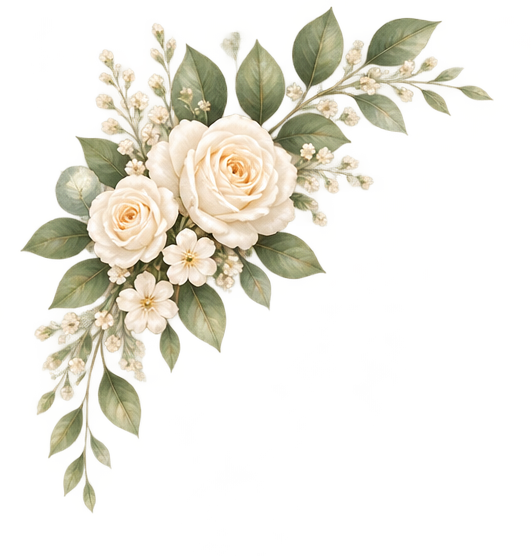
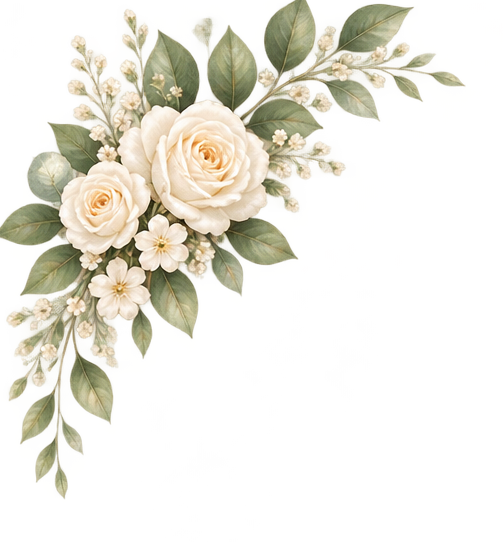
Revamp, prayer on cover

Changed region(s): [[0.0, 0.0, 0.9245, 0.9151]]

diff --git a/app/components/WeddingJourneyInvitation.tsx b/app/components/WeddingJourneyInvitation.tsx
@@ -45,10 +45,10 @@ export default function WeddingJourneyInvitation({
   brideName = 'Elrisa',
   guestName = 'Jojo & Jeje',
   tagline = 'THE WEDDING OF',
-  weddingDateLabel = '30 . 11 . 26',
-  venueName = 'Menara Waktu Grand Hall',
-  venueAddress = 'Jl. Contoh Raya No. 10, Jakarta',
-  venueMapsUrl = 'https://maps.google.com',
+  weddingDateLabel = '22 . 11 . 26',
+  venueName = 'Gedung Balairakyat Depok I / Gedung Serbaguna',
+  venueAddress = 'Jl. Bangau Raya No.192-174, Depok Jaya, Pancoran Mas, Depok City, West Java 16432',
+  venueMapsUrl = 'https://www.google.com/maps/place/Gedung+Serbaguna+Depok+Jaya/@-6.3907592,106.809646,17z/data=!3m1!4b1!4m6!3m5!1s0x2e69e9508de3b925:0xf1901ae7fbf4d254!8m2!3d-6.3907592!4d106.809646!16s%2Fg%2F11b5qx2h68!18m1!1e1?entry=ttu&g_ep=EgoyMDI2MDkwMi4wIKXMDSoASAFQAw%3D%3D',
   onRsvpSubmit,
 }: WeddingJourneyProps) {
   const [gameState, setGameState] = useState<'cover' | 'gender' | 'playing'>('cover');
@@ -128,7 +128,12 @@ export default function WeddingJourneyInvitation({
               <p className={styles.coverTagline}>{tagline}</p>
               <h1 className={styles.coverTitle}>{groomName} <span className={styles.heart}>♥</span> {brideName}</h1>
               <p className={styles.coverDate}>{weddingDateLabel}</p>
-              {guestName && <p className={styles.coverGuest}>Kepada Yth: <span>{guestName}</span></p>}
+              {guestName && <p className={styles.coverGuest}>Dear: <span>{guestName}</span></p>}
+              <div className={styles.modalformGroup}>
+                <p className={styles.coverPrayer} > "And among the signs of His power is that He created for you wives of your own kind, so that you would be inclined and feel at ease with them, and He made among you a feeling of love and affection. Indeed, in that there are truly signs for a person who thinks (لِقَوْمٍ يَتَفَكَّرُونَ )."
+                <br></br> (QS. Ar-Rum: 21)</p>
+              </div>
+              
             </div>
 
             <div className={styles.coverCoupleWrapper}>

diff --git a/app/components/WeddingJourneyInvitation.module.css b/app/components/WeddingJourneyInvitation.module.css
@@ -110,6 +110,18 @@
   color: var(--color-cypress);
 }
 
+.coverPrayer {
+  font-family: 'Montserrat', sans-serif;
+  font-size: 10px;
+  letter-spacing: 4px;
+  margin: 0 0 8px 0;
+  font-weight: 600;
+  color: var(--color-olive);
+  text-transform: uppercase;
+  background: var(--color-ivory); width: 100%; max-width: 320px; border-radius: 16px; padding: 24px;
+  position: relative; text-align: center; box-shadow: 0 10px 30px rgba(0, 0, 0, 0.2)
+}
+
 .coverDate {
   font-family: 'Cormorant Garamond', serif;
   font-weight: 300;
